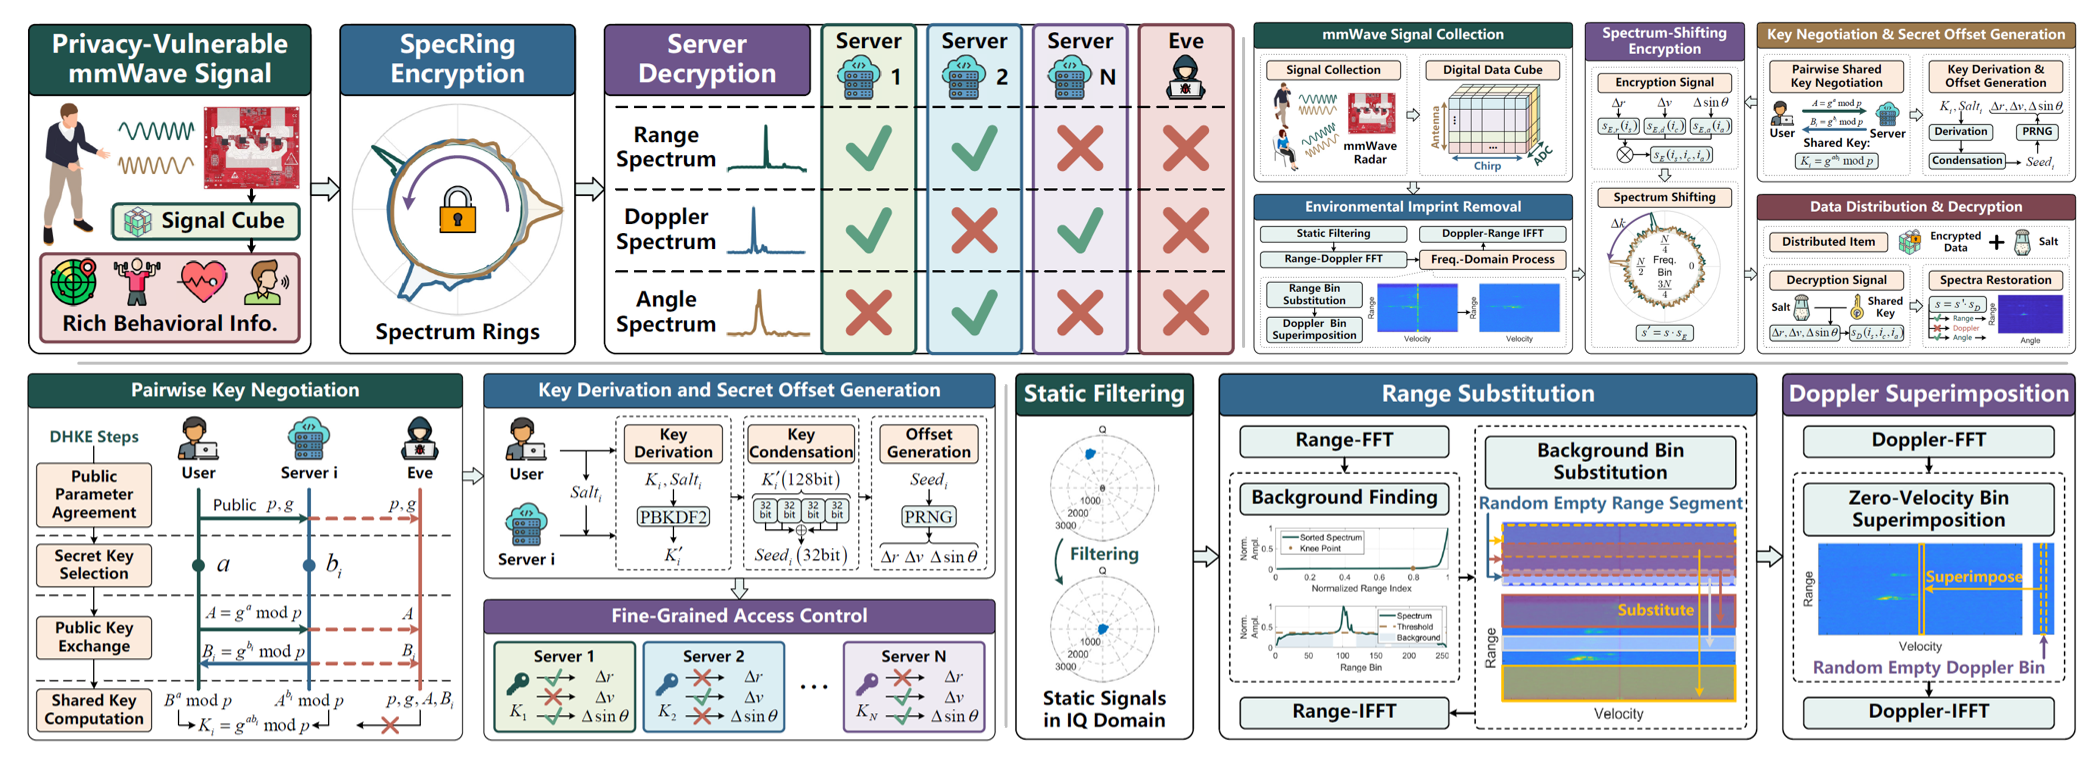
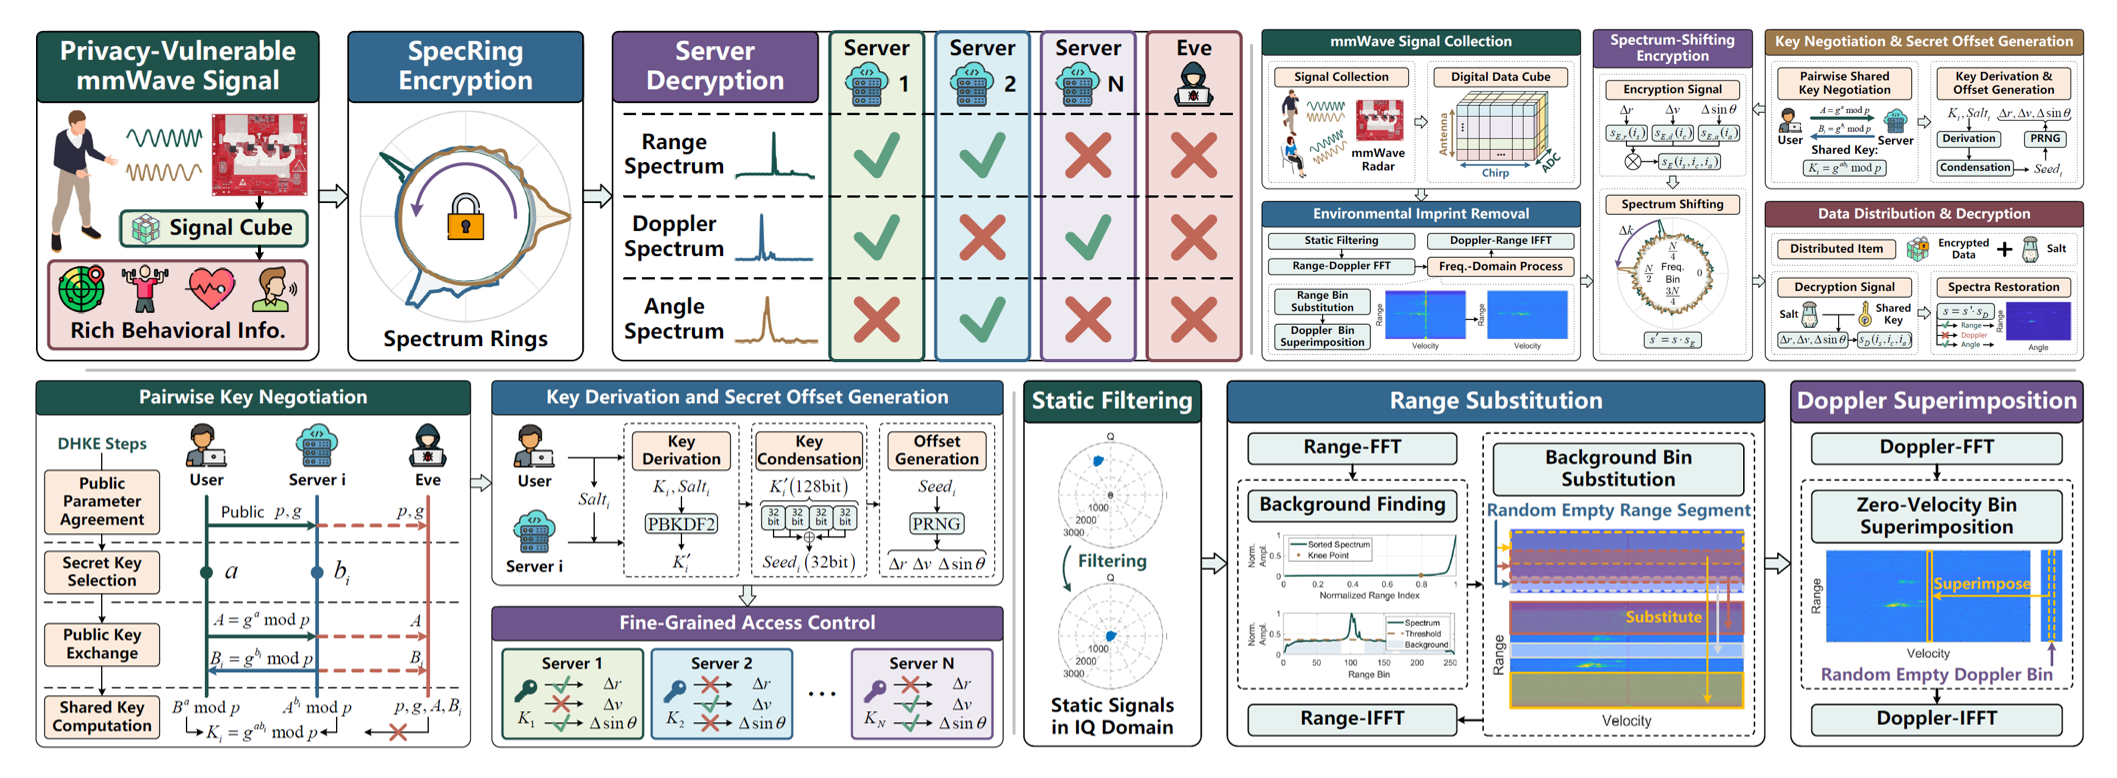
Update publication images and Scarecrow summary

diff --git a/_pages/about.md b/_pages/about.md
@@ -56,14 +56,14 @@ My current research focuses on **Scene Understanding with mmWave Sensing**. My a
 </div>
 </div>
 
-<div class='paper-box'><div class='paper-box-image'><div><div class="badge">TMC 2026</div><img src='images/pmtrack.png' alt="sym" width="100%"></div></div>
+<div class='paper-box'><div class='paper-box-image'><div><div class="badge">TMC 2026</div><img src='images/scarecrow.png' alt="sym" width="100%"></div></div>
 <div class='paper-box-text' markdown="1">
 
 [Scarecrow: Forging Human Presence Within Mmwave Radar Signal Stream](/files/papers/2026-TMC-Scarecrow_Forging_Human_Presence_within_mmWave_Radar_Signal_Stream.pdf)
 
 **Hankai Liu**, Jiaqi Zhang, Xiulong Liu *et al.*
 
-- Forging realistic human presence in mmWave radar streams to protect home occupancy privacy.
+- Embedding highly authentic virtual human targets into mmWave radar streams to protect home occupancy privacy.
 
 </div>
 </div>
